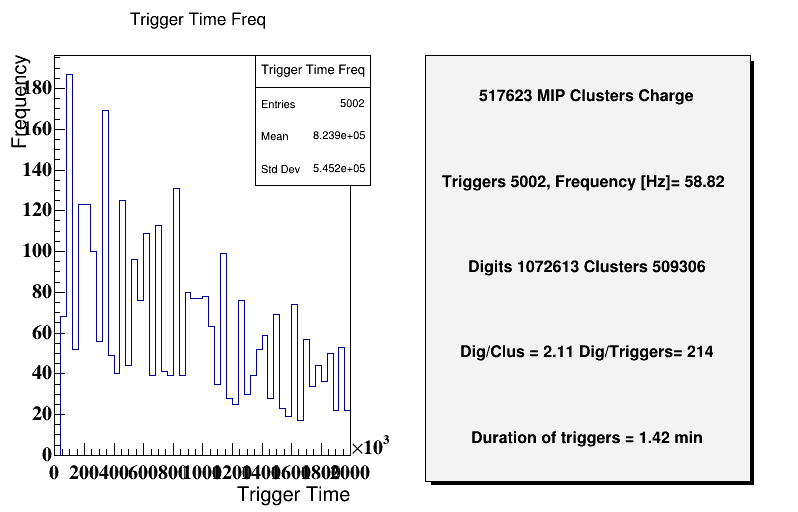
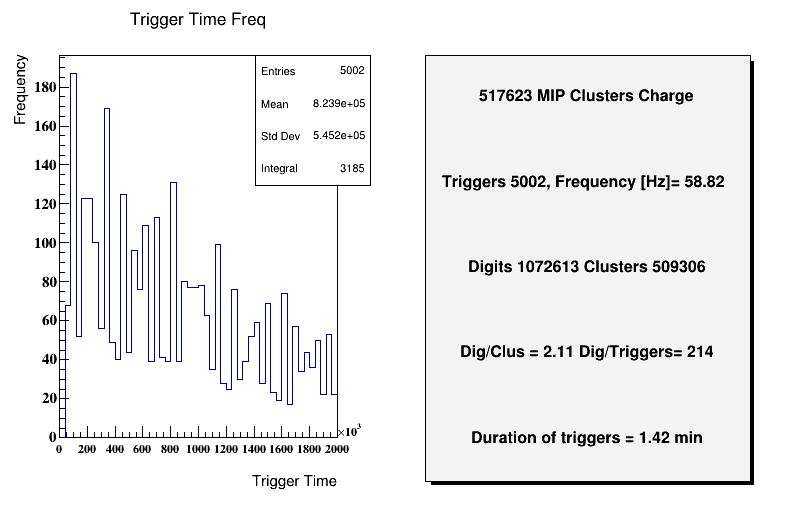
fixed formatting of trigger Hist

diff --git a/517623/readClusters.C b/517623/readClusters.C
@@ -106,7 +106,7 @@ void readClusters(int nEvents)
   std::array<std::unique_ptr<TGraph>, 7> trigGraph;
   
   std::array<std::unique_ptr<TH1F>, 7> digCharge, hMipCharge, digPerEvent;
-  std::array<std::unique_ptr<TH2F>, 7> digMap, digMapAvg, digMapSel;
+  std::array<std::unique_ptr<TH2F>, 7> digMap, digMapAvg, digMapSel, test;
 
 
 
@@ -216,8 +216,7 @@ void readClusters(int nEvents)
     digPerEvent[i].reset(new TH1F(digEvtFreqStr, digEvtFreqStr, 500, 0., .5));
     //digPerEvent[i].reset(new TH1F(digEvtFreqStr, digEvtFreqStr, 500, 100*(avgDigits-150.)/(144*160), 100*(avgDigits+150.)/(144*160)));
     digPerEvent[i]->SetXTitle("Occupancy [%]");
-    digPerEvent[i]->SetYTitle("Frequencies");
-   
+    digPerEvent[i]->SetYTitle("Frequencies");   
   }
 
 
@@ -225,7 +224,17 @@ void readClusters(int nEvents)
     for(int x = 0; x < 160; x++){
       for(int y = 0; y < 144; y++){
         if(!padDig[chamber][x][y]){
-          digMapSel[chamber]->Fill(x,y,1.);
+          digMapSel[chamber]->Fill(x, y, 50.);
+          //cout << "False padDigOff " << chamber << " x " << x << " y " << y << endl;
+        }
+      }
+    }
+  }
+
+  for(int chamber = 0; chamber < 7; chamber++){
+    for(int x = 0; x < 160; x++){
+      for(int y = 0; y < 144; y++){
+        if(digMapSel[chamber]->GetBinContent(x,y)==50.){
           cout << "False padDigOff " << chamber << " x " << x << " y " << y << endl;
         }
       }
@@ -441,7 +450,7 @@ void readClusters(int nEvents)
 
 
   std::unique_ptr<TCanvas> temp1;
-  temp1.reset(new TCanvas(Form("temp1%i",fname), Form("temp1%i",fname),1200, 800));
+  temp1.reset(new TCanvas(Form("temp1%i",fname), Form("temp1%i",fname),1200, 2000));
   temp1->Divide(2,1);
   { 
 
@@ -450,13 +459,21 @@ void readClusters(int nEvents)
     tpvs[0]->Draw();
     auto pad2 = static_cast<TPad*>(temp1->cd(1));
 
-    pad2->SetLeftMargin(.025+pad2->GetLeftMargin());
+    pad2->SetLeftMargin(.0375+pad2->GetLeftMargin());
 
-    pad2->SetBottomMargin(.0025+pad2->GetBottomMargin());
-    pad2->SetRightMargin(.0025+pad2->GetRightMargin());
+    pad2->SetBottomMargin(.0375+pad2->GetBottomMargin());
+    pad2->SetRightMargin(.0375+pad2->GetRightMargin());
 
+    triggerTimeFreqHist->SetTitleOffset(triggerTimeFreqHist->GetTitleOffset("y")*1.5, "y");
+    triggerTimeFreqHist->SetTitleOffset(triggerTimeFreqHist->GetTitleOffset("x")*1.5, "x");
+
+    triggerTimeFreqHist->SetTitleSize(triggerTimeFreqHist->GetTitleSize("x")*0.75, "x");
+    triggerTimeFreqHist->SetTitleSize(triggerTimeFreqHist->GetTitleSize("y")*0.75, "y");
+    triggerTimeFreqHist->SetLabelSize(triggerTimeFreqHist->GetLabelSize("x")*0.625, "x");
+    triggerTimeFreqHist->SetLabelSize(triggerTimeFreqHist->GetLabelSize("y")*0.75, "y");
     triggerTimeFreqHist->Draw();
   }
+  gStyle->SetOptStat("eimr");
   gStyle->SetStatX(0.95);
   temp1->Show();
   temp1->SaveAs(Form("TriggerFreq_%i_.png",fname));
@@ -600,6 +617,10 @@ void readClusters(int nEvents)
     pad3->SetRightMargin(-.0025+pad3->GetRightMargin());
     digMapSel[iCh]->SetLabelOffset(digMapSel[iCh]->GetLabelOffset("y")+0.0015, "y");
     digMapSel[iCh]->SetTitleOffset(1.3,"y");
+    digMapSel[iCh]->SetMarkerStyle(3);
+    digMapSel[iCh]->Draw("Colz");
+
+    digMapSel[iCh]->SetStats(kFALSE);
     digMapSel[iCh]->Draw();
   }
   canvas[5]->Show();
